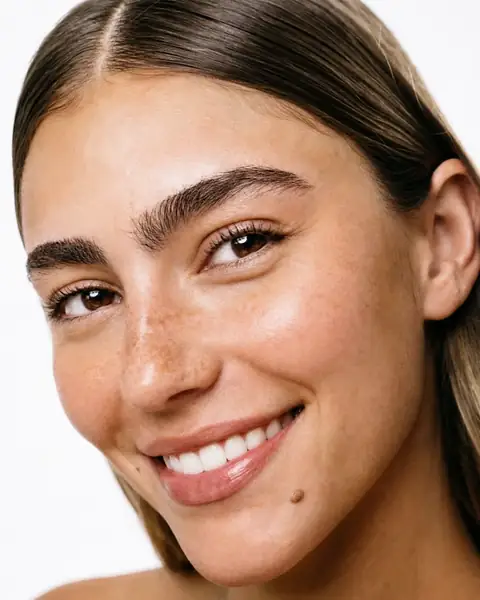
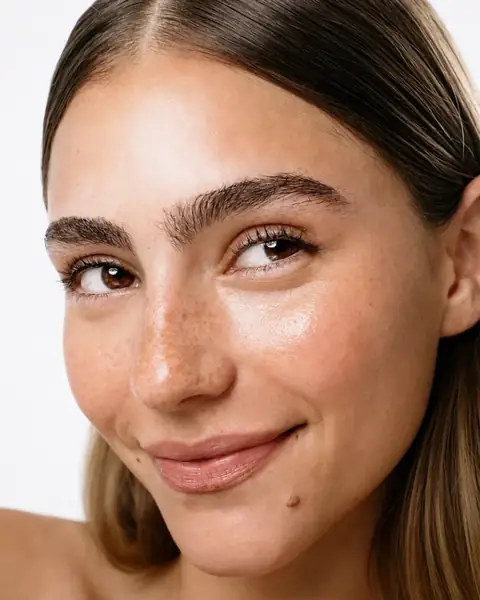
O que ele te proporciona: foto nova no benefício de clareamento
Claude-Session: https://claude.ai/code/session_015PAYQdb8Gor8FQ1pSJN8Hr

diff --git a/lancamento.html b/lancamento.html
@@ -624,7 +624,7 @@
             </span>
           </h3>
           <span class="slot aliado-foto" data-label="Foto 3" data-aparecer>
-            <img src="/assets/img/oferta/aliado-3-480.webp?v=ec45c11a8c" srcset="/assets/img/oferta/aliado-3-480.webp?v=ec45c11a8c 480w, /assets/img/oferta/aliado-3.webp?v=f929bff161 720w" sizes="(min-width: 1024px) 328px, 40vw" width="720" height="900" alt="Pele do rosto uniforme, sem marcas" loading="lazy" onerror="this.hidden=true">
+            <img src="/assets/img/oferta/aliado-3-480.webp?v=cb76267845" srcset="/assets/img/oferta/aliado-3-480.webp?v=cb76267845 480w, /assets/img/oferta/aliado-3.webp?v=9c12133000 720w" sizes="(min-width: 1024px) 328px, 40vw" width="720" height="900" alt="Pele do rosto uniforme, sem marcas" loading="lazy" onerror="this.hidden=true">
           </span>
         </li>
       </ul>

diff --git a/oferta/lancamento.html b/oferta/lancamento.html
@@ -632,7 +632,7 @@
             </span>
           </h3>
           <span class="slot aliado-foto" data-label="Foto 3" data-aparecer>
-            <img src="/assets/img/oferta/aliado-3-480.webp?v=ec45c11a8c" srcset="/assets/img/oferta/aliado-3-480.webp?v=ec45c11a8c 480w, /assets/img/oferta/aliado-3.webp?v=f929bff161 720w" sizes="(min-width: 1024px) 328px, 40vw" width="720" height="900" alt="Pele do rosto uniforme, sem marcas" loading="lazy" onerror="this.hidden=true">
+            <img src="/assets/img/oferta/aliado-3-480.webp?v=cb76267845" srcset="/assets/img/oferta/aliado-3-480.webp?v=cb76267845 480w, /assets/img/oferta/aliado-3.webp?v=9c12133000 720w" sizes="(min-width: 1024px) 328px, 40vw" width="720" height="900" alt="Pele do rosto uniforme, sem marcas" loading="lazy" onerror="this.hidden=true">
           </span>
         </li>
       </ul>

diff --git a/oferta.html b/oferta.html
@@ -637,7 +637,7 @@
             </span>
           </h3>
           <span class="slot aliado-foto" data-label="Foto 3" data-aparecer>
-            <img src="assets/img/oferta/aliado-3-480.webp?v=ec45c11a8c" srcset="assets/img/oferta/aliado-3-480.webp?v=ec45c11a8c 480w, assets/img/oferta/aliado-3.webp?v=f929bff161 720w" sizes="(min-width: 1024px) 328px, 40vw" width="720" height="900" alt="Pele do rosto uniforme, sem marcas" loading="lazy" onerror="this.hidden=true">
+            <img src="assets/img/oferta/aliado-3-480.webp?v=cb76267845" srcset="assets/img/oferta/aliado-3-480.webp?v=cb76267845 480w, assets/img/oferta/aliado-3.webp?v=9c12133000 720w" sizes="(min-width: 1024px) 328px, 40vw" width="720" height="900" alt="Pele do rosto uniforme, sem marcas" loading="lazy" onerror="this.hidden=true">
           </span>
         </li>
       </ul>

diff --git a/teste.html b/teste.html
@@ -625,7 +625,7 @@
             </span>
           </h3>
           <span class="slot aliado-foto" data-label="Foto 3" data-aparecer>
-            <img src="assets/img/oferta/aliado-3-480.webp?v=ec45c11a8c" srcset="assets/img/oferta/aliado-3-480.webp?v=ec45c11a8c 480w, assets/img/oferta/aliado-3.webp?v=f929bff161 720w" sizes="(min-width: 1024px) 328px, 40vw" width="720" height="900" alt="Pele do rosto uniforme, sem marcas" loading="lazy" onerror="this.hidden=true">
+            <img src="assets/img/oferta/aliado-3-480.webp?v=cb76267845" srcset="assets/img/oferta/aliado-3-480.webp?v=cb76267845 480w, assets/img/oferta/aliado-3.webp?v=9c12133000 720w" sizes="(min-width: 1024px) 328px, 40vw" width="720" height="900" alt="Pele do rosto uniforme, sem marcas" loading="lazy" onerror="this.hidden=true">
           </span>
         </li>
       </ul>

diff --git a/v2.html b/v2.html
@@ -625,7 +625,7 @@
             </span>
           </h3>
           <span class="slot aliado-foto" data-label="Foto 3" data-aparecer>
-            <img src="assets/img/oferta/aliado-3-480.webp?v=ec45c11a8c" srcset="assets/img/oferta/aliado-3-480.webp?v=ec45c11a8c 480w, assets/img/oferta/aliado-3.webp?v=f929bff161 720w" sizes="(min-width: 1024px) 328px, 40vw" width="720" height="900" alt="Pele do rosto uniforme, sem marcas" loading="lazy" onerror="this.hidden=true">
+            <img src="assets/img/oferta/aliado-3-480.webp?v=cb76267845" srcset="assets/img/oferta/aliado-3-480.webp?v=cb76267845 480w, assets/img/oferta/aliado-3.webp?v=9c12133000 720w" sizes="(min-width: 1024px) 328px, 40vw" width="720" height="900" alt="Pele do rosto uniforme, sem marcas" loading="lazy" onerror="this.hidden=true">
           </span>
         </li>
       </ul>
